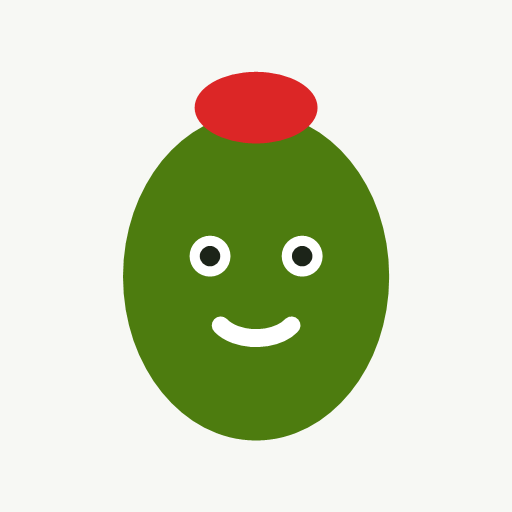
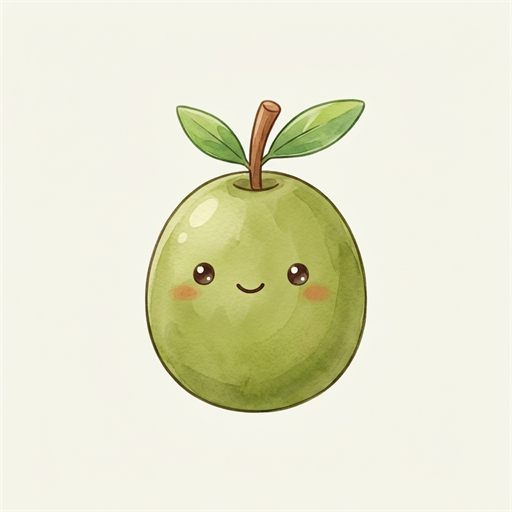
Atualiza mascote e icones para estilo Studio Ghibli (v55)

Changed region(s): [[0.2188, 0.125, 0.7812, 0.875]]

diff --git a/index.html b/index.html
@@ -107,15 +107,8 @@
       <!-- Logo & Status Nuvem -->
       <div class="flex items-center gap-2 sm:gap-3 order-1">
         <div onclick="App.switchTab('dashboard')" class="flex items-center gap-2 sm:gap-2.5 cursor-pointer group">
-          <div class="w-8 h-8 sm:w-9 sm:h-9 rounded-xl bg-lime-700/10 border border-lime-700/20 flex items-center justify-center group-hover:scale-105 transition">
-            <svg viewBox="0 0 40 40" class="w-5 h-5 sm:w-6 sm:h-6">
-              <ellipse cx="20" cy="22" rx="11" ry="13" fill="#4d7c0f" />
-              <ellipse cx="16" cy="18" rx="2.5" ry="4.5" fill="#a3e635" opacity="0.45" transform="rotate(-15 16 18)" />
-              <path d="M16 9 C18 6, 22 6, 24 9 C22 11.5, 18 11.5, 16 9 Z" fill="#dc2626" />
-              <circle cx="16.5" cy="21" r="1.6" fill="#ffffff" />
-              <circle cx="23.5" cy="21" r="1.6" fill="#ffffff" />
-              <path d="M17 25.5 Q20 28.5 23 25.5" stroke="#ffffff" stroke-width="1.8" fill="none" stroke-linecap="round" />
-            </svg>
+          <div class="w-8 h-8 sm:w-9 sm:h-9 rounded-xl overflow-hidden shadow-2xs group-hover:scale-105 transition shrink-0 border border-stone-200/80 bg-[#f7f8f4]">
+            <img src="./icons/icon-192.png" alt="Oli Mascote Ghibli" class="w-full h-full object-cover" />
           </div>
           <div>
             <div class="flex items-center gap-1.5 sm:gap-2">
@@ -1320,11 +1313,11 @@
   </div>
 
   <!-- Scripts da Aplicação -->
-  <script src="./js/data-seed.js?v=54"></script>
-  <script src="./js/housing-financing.js?v=54"></script>
-  <script src="./js/ofx-csv-parser.js?v=54"></script>
-  <script src="./js/supabase-sync.js?v=54"></script>
-  <script src="./js/app.js?v=54"></script>
+  <script src="./js/data-seed.js?v=55"></script>
+  <script src="./js/housing-financing.js?v=55"></script>
+  <script src="./js/ofx-csv-parser.js?v=55"></script>
+  <script src="./js/supabase-sync.js?v=55"></script>
+  <script src="./js/app.js?v=55"></script>
 
   <!-- Registro de Service Worker para PWA / APK -->
   <script>

diff --git a/sw.js b/sw.js
@@ -1,15 +1,16 @@
-const CACHE_NAME = 'olifinancas-v54';
+const CACHE_NAME = 'olifinancas-v55';
 const ASSETS_TO_CACHE = [
   './',
   './index.html',
   './manifest.json',
   './icons/icon-192.png',
   './icons/icon-512.png',
-  './js/app.js?v=54',
-  './js/data-seed.js?v=54',
-  './js/housing-financing.js?v=54',
-  './js/ofx-csv-parser.js?v=54',
-  './js/supabase-sync.js?v=54'
+  './icons/mascot-ghibli.png',
+  './js/app.js?v=55',
+  './js/data-seed.js?v=55',
+  './js/housing-financing.js?v=55',
+  './js/ofx-csv-parser.js?v=55',
+  './js/supabase-sync.js?v=55'
 ];
 
 self.addEventListener('install', (event) => {
